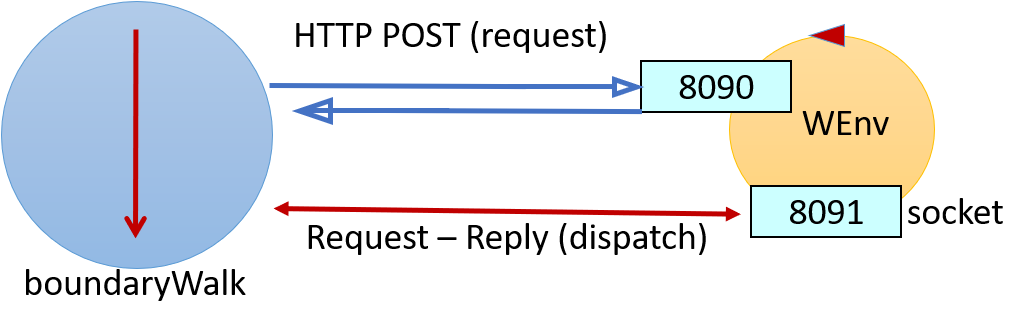
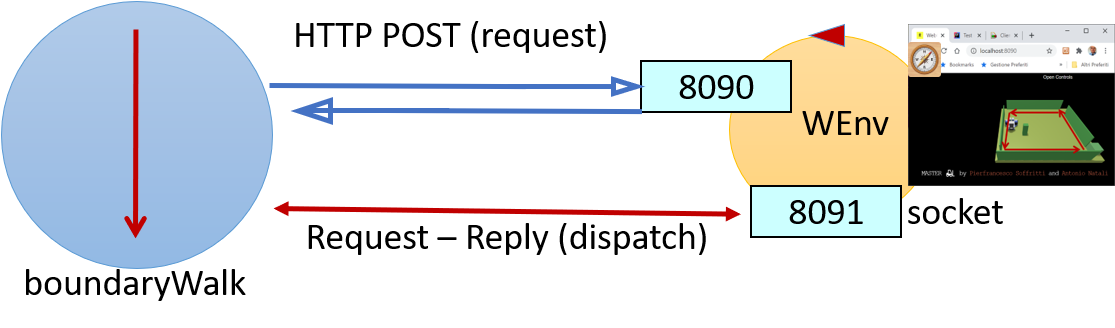
UseRobotAril

diff --git a/it.unibo.boundaryWalk/userDocs/BoundaryWalk.html b/it.unibo.boundaryWalk/userDocs/BoundaryWalk.html
@@ -401,7 +401,8 @@ is based on the library <ks>javax.websocket</ks> and requires a new 'style of pr
 <td style="width:50%">
 <h3>IssCommsFactory</h3>
 The <a href="../app/src/main/java/it/unibo/interaction/IssCommsFactory.java" target="web"><em>IssCommsFactory.java</em></a> provides a 
-factory-method to <ks>create</ks> the proper communicartion support by using a <k>user-defined Java annotation</k> related to the object given in input.
+ <a href="https://en.wikipedia.org/wiki/Factory_method_pattern" target="web">factory method</a>
+to <ks>create</ks> the proper communicartion support by using a <k>user-defined Java annotation</k> related to the object given in input.
 
 <center><img src="./img/IssCommsFactory.png" alt="IssCommsFactory" width="90%" ></center>
 The class
@@ -448,7 +449,7 @@ We will discuss it later.
 
 <tr>
 <td style="width:50%">
-<h3>A layered architecture: a support for the robot</h3>
+<h3>A layered architecture: from cril to aril</h3>
 <div class="remark">
 Since we intend to make our 'business code' technology-independent also with respect to the robot, our project does introduce a layer
 that makes the robot a 'logical entity' able to 'talk' with clients in a custom high-level language, designed with reference to
@@ -457,16 +458,51 @@ the application needs. In the following we we name such a lanaguge as <k>aril</k
 
 The class <a href="../app/src/main/java/it/unibo/interaction/IssVirtualRobotSupport.java" target="web"><em>IssVirtualRobotSupport.java</em></a> 
 
-is introduced as a component able to translate <k>aril</k> commands into  <k>cril</k> commands, thus working as an adapter.
+is introduced as a component able to translate <k>aril</k> commands into  <k>cril</k> commands, thus working as an 
+<a href="https://en.wikipedia.org/wiki/Adapter_pattern"  target="web">adapter</a>.
 <br/><br/>
 
-<a href="../app/src/main/java/it/unibo/interaction/UseRobotAril.java" target="web"><em>UseRobotAril.java</em></a> <br/>
 
 
+<center><img src="./img/UseRobotAril.png" alt="UseRobotAril" width="60%" ></center>
 
 <br/>
 </td>
 <td>  
+<h3>Example</h3>
+The annotated class 
+<a href="../app/src/main/java/it/unibo/interaction/UseRobotAril.java" target="web"><em>UseRobotAril.java</em></a> 
+provides examples of code that sends aril commands to the robot by using high-level operations such as <ks>requestSynch</ks>
+/ <ks>request</ks> / <ks>forward</ks>. For example:
+
+<pre>
+    public String doBoundary( int stepNum, String journey){
+        if (stepNum > 4)  return journey;
+        String answer = robotSupport.requestSynch( "w" );
+        while( answer.equals("true") ){
+            journey = journey + "w";
+            answer = robotSupport.requestSynch( "w" );
+        }
+        <kc>//collision</kc>
+        robotSupport.requestSynch("l");
+        return doBoundary(stepNum + 1, journey + "l");
+    }
+</pre>
+
+The configuration of the application is embedded in a proper <ks>Factory method</ks>:
+<pre>
+    public static UseRobotAril create(){
+        UseRobotAril obj          = new UseRobotAril();   <kc>//appl-object</kc>
+        IssOperations commSupport = IssCommsFactory.create( obj  );
+        <k>obj.robotSupport</k>          = new IssVirtualRobotSupport( obj, commSupport ); 
+        <ks>//In the future we could use different robots and thus different robotSupport</ks>
+        return obj;  <kc>//return the created appl-object</kc>
+    }
+</pre>
+<br/>
+Th class
+<a href="../app/src/test/java/it/unibo/boundaryWalk/TestBoundary.java" target="web"><em>TestBoundary.java</em></a> 
+includes a test that checks the journey pattern retunred by the operation <tt>doBoundary</tt>.
 </td>
 </tr>
 
@@ -474,19 +510,45 @@ is introduced as a component able to translate <k>aril</k> commands into  <k>cri
 
 <tr>
 <td style="width:50%">
-<h3>A ubiquitous language</h3>
+<h3>Application-level messages</h3>
 <div class="remark">
-Since we intend to develop distributed applications that involve different kinds of (IOT) devices (and not only robots)
-or even related to applications domains different than IOT, ... .
+Since we intend to develop distributed applications that involve different kinds of devices (and not only robots)
+or even applications related to domains different than IOT, we introduce a more general representation of messages.
 </div>
-<a href="../app/src/main/java/it/unibo/interaction/AppMsg.java" target="web"><em>AppMsg.java</em></a> 
+
+The class <a href="../app/src/main/java/it/unibo/interaction/AppMsg.java" target="web"><em>AppMsg.java</em></a> 
+implements our idea of messages at application-level.
 <br/>
+The external representation is a String written in Prolog syntax as a Prolog-Term with 5 arguments:
+<pre>
+msg( MSGID, MSGTYPE, SENDER, RECEIVER, CONTENT, SEQNUM )
+</pre>
+Now the aril language is used to write the payoload of the message, i.e. the argument <ks>CONTENT</ks>.
+<br/><br/>
+We distinguish among different application-message types:
+<pre>
+enum class AppMsgType{ event, dispatch, request, reply, invitation }
+</pre>
+
 </td>
 <td>  
+From the point of view of an application designer, we say that:
+ <ul>
+<li><bc>Dispatch</bc>: a message '<i>fire and forget</i>': the sender does not expect any answer.</li>
+<li><bc>Request</bc>: the sender expects an answer sent using a <bc>Reply</bc>.</li>
+<li><bc>Invitation</bc>: the sender expects an <tt>ack</tt>.</li>
+<li><bc>Event</bc>: the sender '<i>emits information</i>' without specifying any receiver (<tt>RECEIVER=none</tt>). </li>
+</ul>
+
+The class <a href="../app/src/main/java/it/unibo/interaction/AppMsg.java" target="code">AppMsg.java</a> provides two functions <m><ks>AppMsg.create(...)</ks></m> 
+that can be used as <a href="https://en.wikipedia.org/wiki/Factory_method_pattern" target="web">Factory methods</a>.
+
+<h4>Example</h4>
 <a href="../app/src/main/java/it/unibo/interaction/IssRobot.java" target="web"><em>IssRobot.java</em></a> 
 </td>
 </tr>
 
+<!--
 
 <tr>
 <td style="width:50%">
@@ -528,7 +590,7 @@ that
 <center><img src="./img/projectArch0Zoom.png" alt="projectArch0Zoom" width="100%" ></center>
 </td>
 </tr>
-
+-->
 
 
 

diff --git a/it.unibo.boundaryWalk/app/src/main/java/it/unibo/interaction/UseRobotAril.java b/it.unibo.boundaryWalk/app/src/main/java/it/unibo/interaction/UseRobotAril.java
@@ -1,7 +1,7 @@
 /**
  UseVirtualRobot.java
  ===============================================================
- Use the virtual robot by exploiting Java annotation on the class
+ Use the (virtual) robot by exploiting Java annotation on the class
  to configure the protocol (HTTP or WS) and the move times.
 
  HOWEVER, the configuration can also be set (WITH PRIORITY over the class)
@@ -33,8 +33,8 @@ public class UseRobotAril {
 
     //Factory method
     public static UseRobotAril create(){
-        UseRobotAril obj              = new UseRobotAril();  //appl-object
-        IssOperations commSupport = new IssCommsFactory().create( obj  );
+        UseRobotAril obj          = new UseRobotAril();  //appl-object
+        IssOperations commSupport = IssCommsFactory.create( obj  );
         obj.robotSupport          = new IssVirtualRobotSupport( obj, commSupport ); //'inject'
         //In the future we could use different robots and thus different robotSupport,
         return obj;  //return the created appl-object

diff --git a/it.unibo.boundaryWalk/app/src/test/java/it/unibo/boundaryWalk/TestBoundary.java b/it.unibo.boundaryWalk/app/src/test/java/it/unibo/boundaryWalk/TestBoundary.java
@@ -29,8 +29,6 @@ public class TestBoundary {
         try{
             String result = appl.doBoundary(1, "");
             System.out.println( "testBoundary result:" + result );
-            //testJourney(result);
-            //assertTrue( result.equals("wwwlwwwlwwwlwwwl")  );
             assertTrue( checkJourney(result) );
         }catch( Exception e){
             fail();
@@ -43,7 +41,6 @@ public class TestBoundary {
         int n = 0;
         while(matcher.find()) {
             n++;
-            //System.out.println("n=" + n);
         }
         return n==4;
     }
